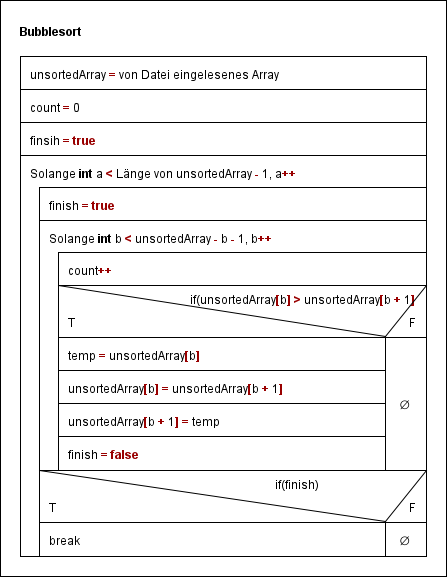
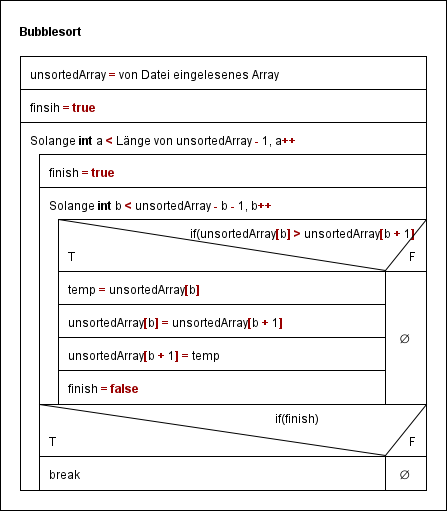
fix

Changed region(s): [[0.0291, 0.0294, 0.9597, 0.9687], [0.0, 0.998, 1.0, 1.0], [0.9016, 0.6458, 0.9306, 0.7045]]

diff --git a/m411-gruppenarbeit-magnus-loic-dennis-moritz/src/main/java/dev/modul411/sortiergruppenarbeit/sortingalgorithm/Quicksort.java b/m411-gruppenarbeit-magnus-loic-dennis-moritz/src/main/java/dev/modul411/sortiergruppenarbeit/sortingalgorithm/Quicksort.java
@@ -13,7 +13,8 @@ import dev.modul411.sortiergruppenarbeit.Measure;
 public class Quicksort implements Sorter {
 
     private int[] unsortedArray;
-    private int count = 0;
+    private int countComparison = 0;
+    private int countIteration = 0;
 
     /**
      * Default constructor
@@ -34,7 +35,8 @@ public class Quicksort implements Sorter {
         //sort
         sorting(0, unsortedArray.length - 1);
 
-        measure.setComparison(count);
+        measure.setComparison(countComparison);
+        measure.setIterations(countIteration);
         measure.setSortedArray(unsortedArray);
     }
 
@@ -46,21 +48,10 @@ public class Quicksort implements Sorter {
         return "Quicksort";
     }
 
-//    /**
-//     * @param leftPos
-//     * @param rightPos
-//     */
-//    public Quicksort(int leftPos, int rightPos) {
-//        if (leftPos < rightPos) {
-//            int middlePos = split(leftPos, rightPos);
-//            new Quicksort(leftPos, middlePos - 1);
-//            new Quicksort(middlePos + 1, rightPos);
-//        }
-//    }
 
     /**
-     * @param leftPos
-     * @param rightPos
+     * @param leftPos  the starting position
+     * @param rightPos the ending position
      */
     private void sorting(int leftPos, int rightPos) {
         if (leftPos < rightPos) {
@@ -68,17 +59,18 @@ public class Quicksort implements Sorter {
             sorting(leftPos, middlePos - 1);
             sorting(middlePos + 1, rightPos);
         }
+        countIteration++;
     }
 
     /**
-     * @param leftPos
-     * @param rightPos
-     * @return
+     * @param leftPos  the starting position
+     * @param rightPos the ending position
+     * @return the ending position
      */
     public int split(int leftPos, int rightPos) {
         int pivotPos = leftPos;
         while (leftPos < rightPos) {
-            count++;
+            countComparison++;
             if (unsortedArray[rightPos] > unsortedArray[pivotPos]) {
                 rightPos--;
             } else {
@@ -93,14 +85,13 @@ public class Quicksort implements Sorter {
     }
 
     /**
-     * @param leftPos
-     * @param rightPos
+     * @param leftPos  the first position for swapping
+     * @param rightPos the second position for swapping
      */
     public void swap(int leftPos, int rightPos) {
         int temp = unsortedArray[rightPos];
         unsortedArray[rightPos] = unsortedArray[leftPos];
         unsortedArray[leftPos] = temp;
     }
-
 
 }

diff --git a/m411-gruppenarbeit-magnus-loic-dennis-moritz/src/main/java/dev/modul411/sortiergruppenarbeit/sortingalgorithm/Mergesort.java b/m411-gruppenarbeit-magnus-loic-dennis-moritz/src/main/java/dev/modul411/sortiergruppenarbeit/sortingalgorithm/Mergesort.java
@@ -12,7 +12,8 @@ import dev.modul411.sortiergruppenarbeit.Measure;
 
 
 public class Mergesort implements Sorter {
-    private int count = 0;
+    private int countComparison = 0;
+    private int countIteration = 0;
 
     /**
      * Default constructor
@@ -29,10 +30,11 @@ public class Mergesort implements Sorter {
     @Override
     public void sort(int[] unsortedArray, Measure measure) {
         //sort
-        int[] sortedARR = loop(unsortedArray);
+        int[] sortedArray = loop(unsortedArray);
 
-        measure.setComparison(count);
-        measure.setSortedArray(sortedARR);
+        measure.setComparison(countComparison);
+        measure.setIterations(countIteration);
+        measure.setSortedArray(sortedArray);
     }
 
     /**
@@ -44,12 +46,12 @@ public class Mergesort implements Sorter {
     }
 
     /**
-     * @param unsortedArray
-     * @return
+     * @param unsortedArray the array which will be sorted
+     * @return the sorted array
      */
     public int[] loop(int[] unsortedArray) {
         for (int start = 0; start < unsortedArray.length; ++start) {
-            count++;
+            countIteration++;
             int minIndex = findTheMiniIndex(unsortedArray, start);
             swap(unsortedArray, minIndex, start);
         }
@@ -57,13 +59,14 @@ public class Mergesort implements Sorter {
     }
 
     /**
-     * @param arr
-     * @param start
-     * @return
+     * @param arr   the array
+     * @param start position on which the algorithm should start
+     * @return smallest index
      */
     public int findTheMiniIndex(int[] arr, int start) {
         int index = start;
         for (int i = start + 1; i < arr.length; ++i) {
+            countComparison++;
             if (arr[index] > arr[i]) {
                 index = i;
             }
@@ -72,9 +75,9 @@ public class Mergesort implements Sorter {
     }
 
     /**
-     * @param swapValOfArr
-     * @param minIndex
-     * @param start
+     * @param swapValOfArr the array in which the values should be swapped
+     * @param minIndex     the first index
+     * @param start        the second index
      */
     public void swap(int[] swapValOfArr, int minIndex, int start) {
         int temp = swapValOfArr[minIndex];

diff --git a/m411-gruppenarbeit-magnus-loic-dennis-moritz/src/main/java/dev/modul411/sortiergruppenarbeit/Sort.java b/m411-gruppenarbeit-magnus-loic-dennis-moritz/src/main/java/dev/modul411/sortiergruppenarbeit/Sort.java
@@ -12,18 +12,13 @@ import dev.modul411.sortiergruppenarbeit.sortingalgorithm.Sorter;
 
 public class Sort<T extends Sorter> {
     /**
-     * Handels the Measurements with wich Sorter
+     * Handles the Measurements with which Sorter
      *
      * @param sorter        with which sorter is sorted
      * @param unsortedArray the array which will be sorted
-     * @param measure       to measure the different informations about the mergeosrt
+     * @param measure       to measure the different information about the mergesort
      */
     public void sort(T sorter, int[] unsortedArray, Measure measure) {
-
-        //Measure memory
-        Runtime runtime = Runtime.getRuntime();
-        long usedMemoryBefore = runtime.totalMemory() - runtime.freeMemory();
-
         //Measure time
         long startTime = System.nanoTime();
 
@@ -32,9 +27,5 @@ public class Sort<T extends Sorter> {
 
         //End time
         measure.setTime(System.nanoTime() - startTime);
-
-        //End memory
-        long usedMemoryAfter = runtime.totalMemory() - runtime.freeMemory();
-        measure.setMemory(usedMemoryAfter - usedMemoryBefore);
     }
 }

diff --git a/m411-gruppenarbeit-magnus-loic-dennis-moritz/src/main/java/dev/modul411/sortiergruppenarbeit/sortingalgorithm/Bubblesort.java b/m411-gruppenarbeit-magnus-loic-dennis-moritz/src/main/java/dev/modul411/sortiergruppenarbeit/sortingalgorithm/Bubblesort.java
@@ -15,7 +15,9 @@ import dev.modul411.sortiergruppenarbeit.Measure;
 public class Bubblesort implements Sorter {
 
     private int[] unsortedArray;
-    private int count = 0;
+    private int countComparison = 0;
+    private int countIteration = 0;
+
 
     /**
      * Default constructor
@@ -36,7 +38,8 @@ public class Bubblesort implements Sorter {
 
         //sort
         sorting();
-        measure.setComparison(count);
+        measure.setComparison(countComparison);
+        measure.setIterations(countIteration);
         measure.setSortedArray(unsortedArray);
     }
 
@@ -54,9 +57,10 @@ public class Bubblesort implements Sorter {
     private void sorting() {
         boolean finish;
         for (int a = 0; a < unsortedArray.length - 1; a++) {
+            countIteration++;
             finish = true;
             for (int b = 0; b < unsortedArray.length - a - 1; b++) {
-                count++;
+                countComparison++;
                 if (unsortedArray[b] > unsortedArray[b + 1]) {
                     int temp = unsortedArray[b];
                     unsortedArray[b] = unsortedArray[b + 1];

diff --git a/m411-gruppenarbeit-magnus-loic-dennis-moritz/src/main/java/dev/modul411/sortiergruppenarbeit/Measure.java b/m411-gruppenarbeit-magnus-loic-dennis-moritz/src/main/java/dev/modul411/sortiergruppenarbeit/Measure.java
@@ -9,7 +9,7 @@ package dev.modul411.sortiergruppenarbeit;
  */
 public class Measure {
     private long time;
-    private long memory;
+    private long iterations;
     private long comparison;
     private int[] sortedArray;
 
@@ -34,17 +34,17 @@ public class Measure {
     }
 
     /**
-     * @return the memory used by the algorithm
+     * @return the iterations done by the algorithm
      */
-    public long getMemory() {
-        return memory;
+    public long getIterations() {
+        return iterations;
     }
 
     /**
-     * @param memory
+     * @param iterations sets the amount of iterations done by the algorithm
      */
-    public void setMemory(long memory) {
-        this.memory = memory;
+    public void setIterations(long iterations) {
+        this.iterations = iterations;
     }
 
     /**

diff --git a/m411-gruppenarbeit-magnus-loic-dennis-moritz/src/main/java/dev/modul411/sortiergruppenarbeit/Main.java b/m411-gruppenarbeit-magnus-loic-dennis-moritz/src/main/java/dev/modul411/sortiergruppenarbeit/Main.java
@@ -50,7 +50,7 @@ public class Main {
                 Measure measure = new Measure();
                 Sort sort = new Sort();
                 sort.sort(algorithmtoSort, valuesToSort, measure);
-                values.add(new String[]{algorithmtoSort.getAlgorithmName() + " - " + valuesToSort.length, String.valueOf(measure.getMemory()), String.valueOf(measure.getComparison()), String.valueOf(measure.getTime() / 1_000_000f)});
+                values.add(new String[]{algorithmtoSort.getAlgorithmName() + " - " + valuesToSort.length, String.valueOf(measure.getIterations()), String.valueOf(measure.getComparison()), String.valueOf(measure.getTime() / 1_000_000f)});
             }
         }
         return values;

diff --git a/m411-gruppenarbeit-magnus-loic-dennis-moritz/src/main/java/dev/modul411/sortiergruppenarbeit/importexport/ExportFile.java b/m411-gruppenarbeit-magnus-loic-dennis-moritz/src/main/java/dev/modul411/sortiergruppenarbeit/importexport/ExportFile.java
@@ -36,7 +36,7 @@ public class ExportFile {
         try {
             FileWriter outputfile = new FileWriter(file);
             CSVWriter writer = new CSVWriter(outputfile);
-            String[] header = {"Sortingalgorithm", "Memory used", "Comparisons done", "Time needed in milliseconds"};
+            String[] header = {"Sortingalgorithm", "Iterations done", "Comparisons done", "Time needed in milliseconds"};
             writer.writeNext(header);
             for (String[] s : sortedValues) {
                 writer.writeNext(s);
